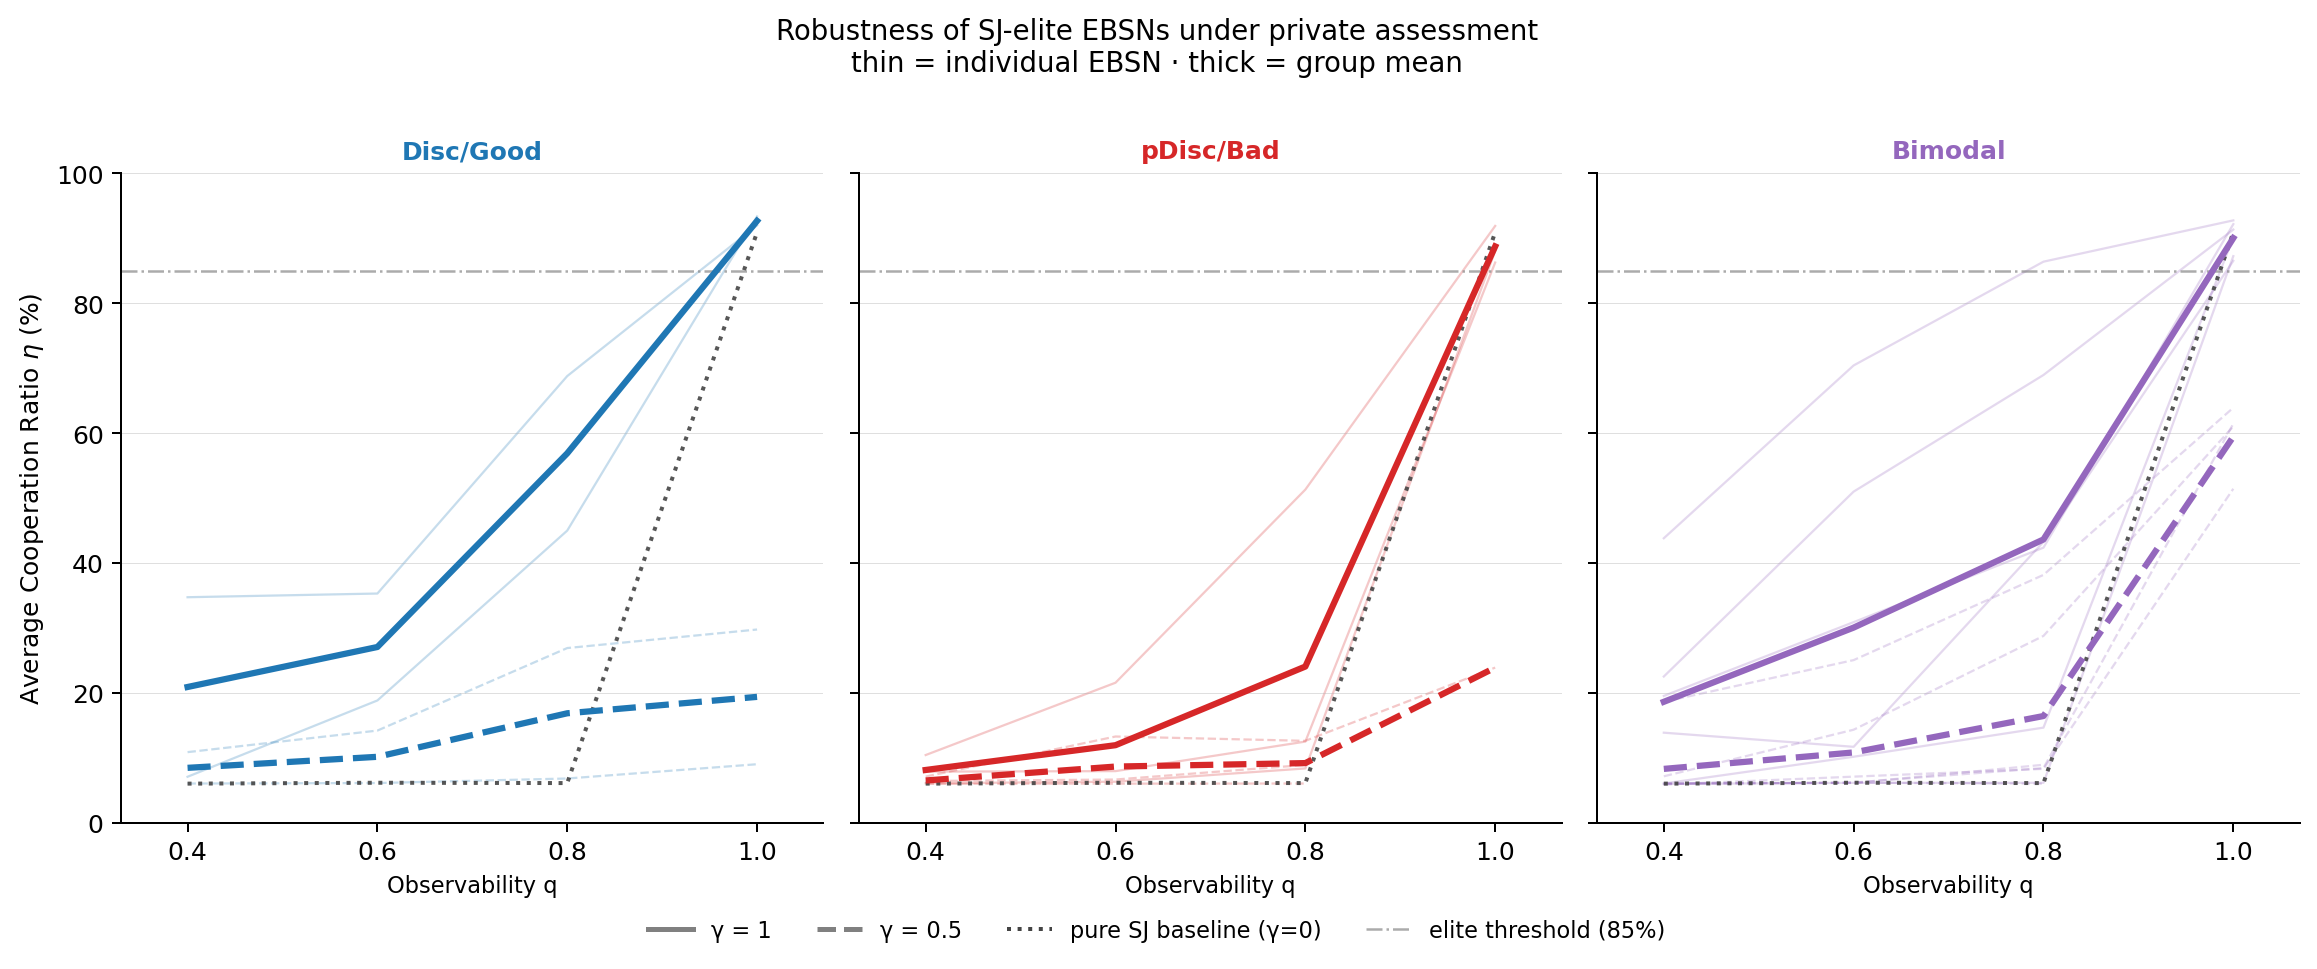
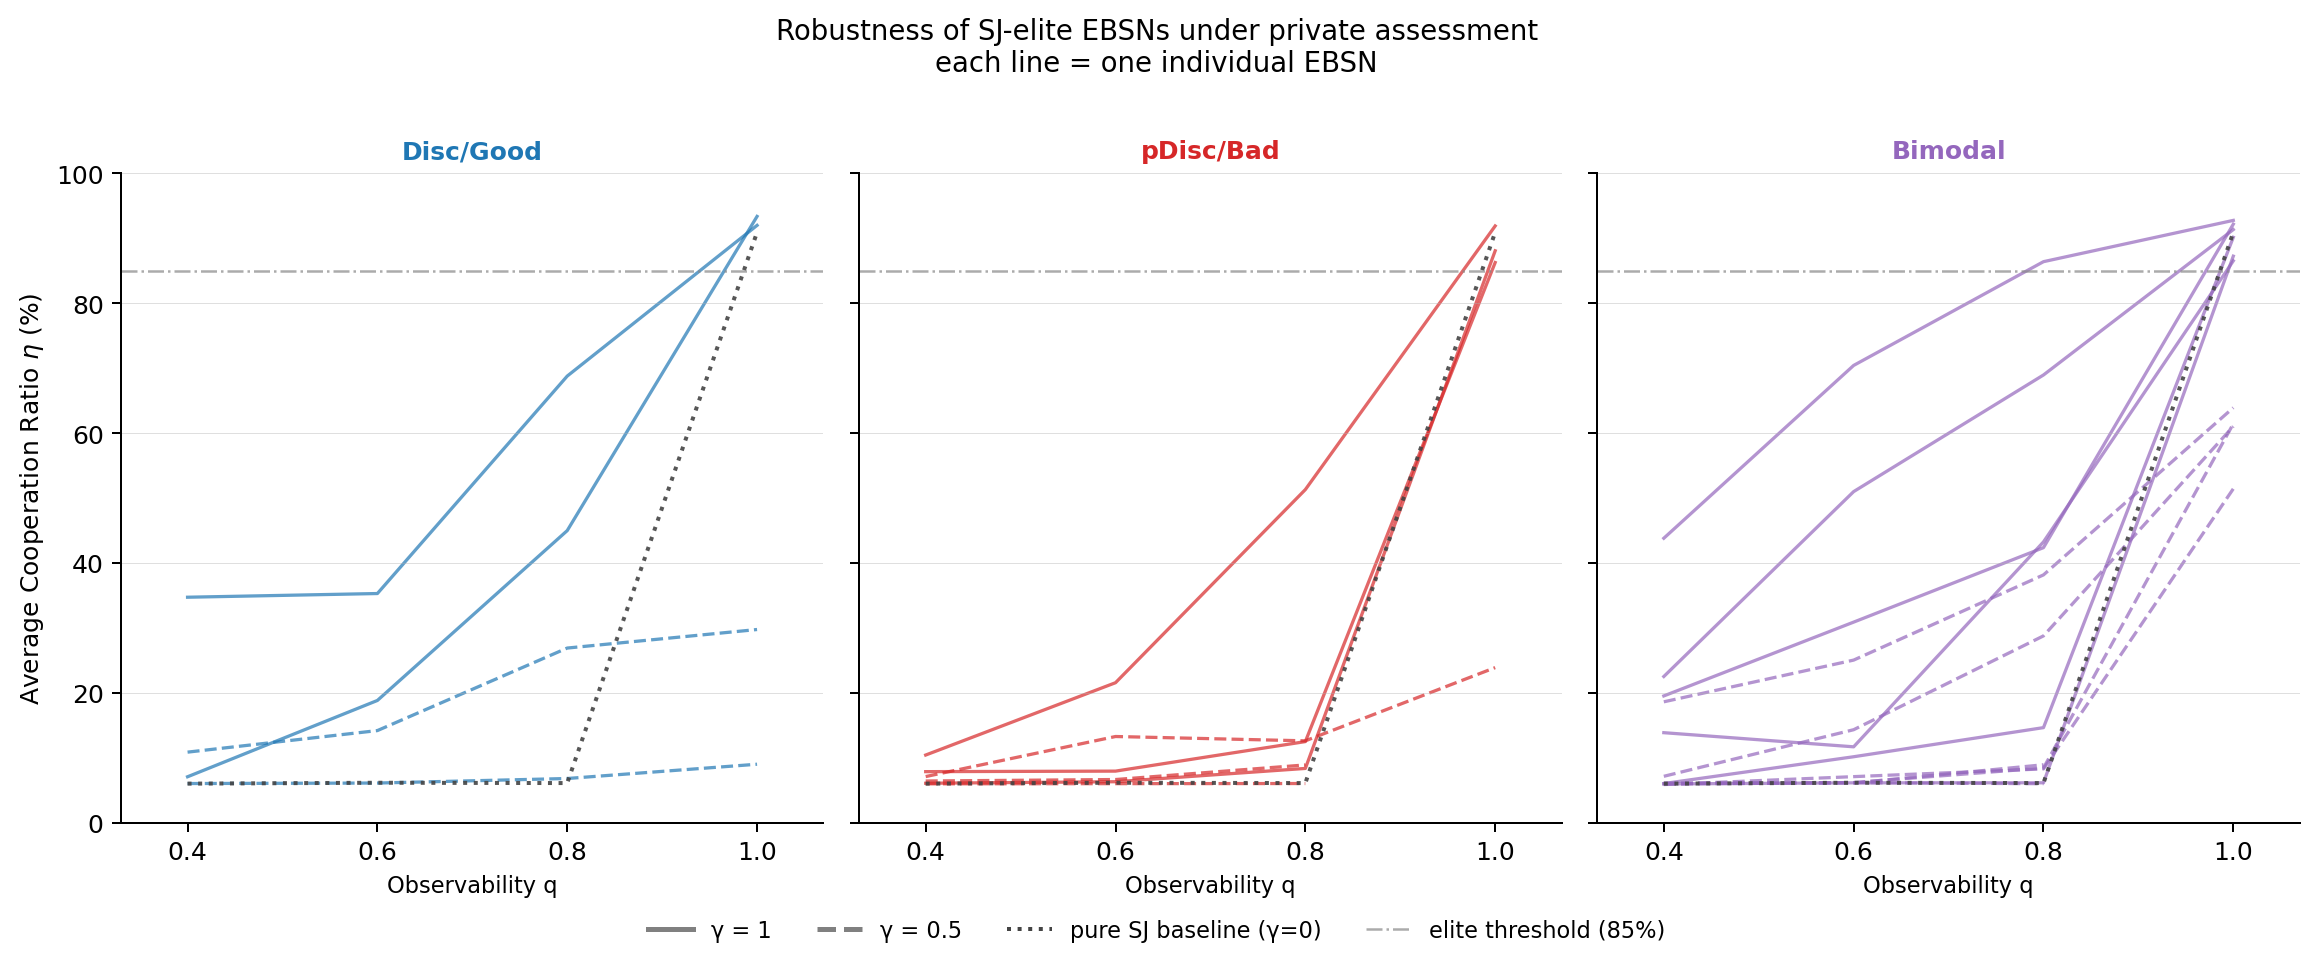
time-series extra plots

diff --git a/plotting/private_assessment_plots.py b/plotting/private_assessment_plots.py
@@ -11,9 +11,9 @@ Produces:
 
   plotting/plots/private_assessment_robustness.png
       ACR vs q, one panel per equilibrium type.
-      Solid = γ=1, dashed = γ=0.5.  Thin lines = individual EBSNs,
-      thick line = group mean.  Horizontal dotted = q=1 reference from
-      canonical sweeps (acr_1 from elite_table.csv).
+      Solid = γ=1, dashed = γ=0.5.  Each line = one individual EBSN.
+      Horizontal dotted = q=1 reference from canonical sweeps
+      (acr_1 from elite_table.csv).
 
 Usage:
     python plotting/private_assessment_plots.py
@@ -232,8 +232,7 @@ def make_robustness_plot(agg: pd.DataFrame, baseline: dict[float, float]) -> plt
     fig.subplots_adjust(wspace=0.08)
 
     ls_map = {0.5: "--", 1.0: "-"}
-    lw_ind = 0.9   # individual EBSN lines
-    lw_avg = 2.5   # group mean
+    lw_ind = 1.3   # individual EBSN lines
 
     base_q   = sorted(baseline)
     base_acr = [baseline[q] for q in base_q]
@@ -250,16 +249,9 @@ def make_robustness_plot(agg: pd.DataFrame, baseline: dict[float, float]) -> plt
                 ax.plot(
                     grp_sorted["q"],
                     grp_sorted["acr"] * 100,
-                    color=col, alpha=0.25, lw=lw_ind,
+                    color=col, alpha=0.7, lw=lw_ind,
                     ls=ls_map[gamma], zorder=1,
                 )
-            # Group mean
-            mean_line = g_sub.groupby("q")["acr"].mean().reset_index().sort_values("q")
-            ax.plot(
-                mean_line["q"],
-                mean_line["acr"] * 100,
-                color=col, lw=lw_avg, ls=ls_map[gamma], zorder=3,
-            )
 
         ax.set_title(eq, fontsize=10, fontweight="bold",
                      color=col)
@@ -291,7 +283,7 @@ def make_robustness_plot(agg: pd.DataFrame, baseline: dict[float, float]) -> plt
 
     fig.suptitle(
         "Robustness of SJ-elite EBSNs under private assessment\n"
-        "thin = individual EBSN · thick = group mean",
+        "each line = one individual EBSN",
         fontsize=11, y=1.01,
     )
     fig.tight_layout()
